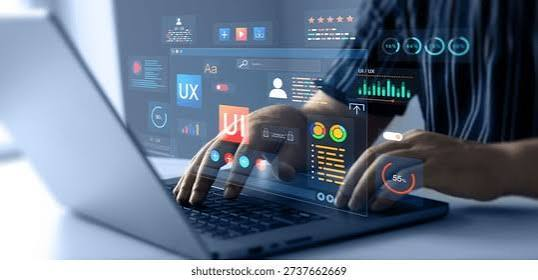
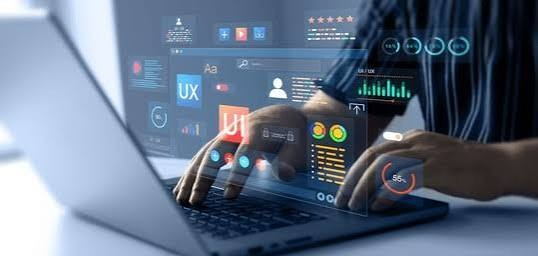
update

diff --git a/computer-details.css b/computer-details.css
@@ -1,4 +1,4 @@
-.mobile-detail {
+.computer-detail {
     width: 92%;
     max-width: 1400px;
     margin: 60px auto;
@@ -10,15 +10,14 @@
     border-radius: 28px;
     box-shadow: 0 15px 40px rgba(37, 99, 235, 0.08);
     box-sizing: border-box;
-
 }
 
-.mobile-detail-image {
+.computer-detail-image {
     flex: 1;
     min-width: 0;
 }
 
-.mobile-detail-image img {
+.computer-detail-image img {
     display: block;
     width: 100%;
     height: 420px;
@@ -26,13 +25,12 @@
     border-radius: 20px;
 }
 
-.mobile-detail-content {
+.computer-detail-content {
     flex: 1;
     min-width: 0;
-
 }
 
-.mobile-detail-label {
+.computer-detail-label {
     display: inline-block;
     margin-bottom: 14px;
     color: #2563eb;
@@ -41,14 +39,14 @@
     letter-spacing: 2px;
 }
 
-.mobile-detail-content h1 {
+.computer-detail-content h1 {
     margin-bottom: 18px;
     color: #0f172a;
     font-size: 38px;
     line-height: 1.3;
 }
 
-.mobile-detail-content p {
+.computer-detail-content p {
     max-width: 560px;
     margin-bottom: 28px;
     color: #64748b;
@@ -56,14 +54,17 @@
     line-height: 1.8;
 }
 
-.mobile-detail-cards {
+.computer-detail-cards {
     display: flex;
+    
+    
     gap: 18px;
     margin-top: 30px;
 }
 
-.mobile-info-card {
-    flex: 1 1 0;
+.computer-info-card {
+    flex: 1;
+    min-width: 0;
     padding: 20px;
     background-color: #f8fafc;
     border: 1px solid #e2e8f0;
@@ -71,37 +72,29 @@
     transition: 0.3s;
 }
 
-.mobile-info-card i {
+.computer-info-card i {
     display: block;
     margin-bottom: 12px;
     color: #2563eb;
     font-size: 24px;
-    
 }
 
-
-.mobile-info-card h3 {
+.computer-info-card h3 {
     margin-bottom: 8px;
     color: #0f172a;
     font-size: 17px;
 }
 
-.mobile-info-card p {
+.computer-info-card p {
     margin: 0;
     color: #64748b;
     font-size: 13px;
     line-height: 1.6;
 }
 
-.mobile-info-card:hover {
+.computer-info-card:hover {
     transform: translateY(-4px);
     box-shadow: 0 8px 20px rgba(15, 23, 42, 0.08);
-}
-
-.mobile-detail-cards {
-    display: flex !important;
-    flex-direction: row !important;
-    width: 100%;
 }
 
 /* گزینه برگشت */
@@ -119,61 +112,4 @@
 .back-home:hover {
     color: #1d4ed8;
     transform: translateX(-3px);
-}
-
-.mobile-card-extra-info {
-    width: 92%;
-    max-width: 1200px;
-    margin: 30px auto 60px;
-    padding: 30px 36px;
-    box-sizing: border-box;
-    background-color: #f8fafc;
-    border: 1px solid #e2e8f0;
-    border-radius: 20px;
-    box-shadow: 0 10px 30px rgba(37, 99, 235, 0.06);
-    display: none;
-
-}
-
-.mobile-card-extra-content {
-    display: none;
-    animation: mobileInfoShow 0.5s ease;
-}
-
-@keyframes mobileInfoShow {
-    from {
-        opacity: 0;
-        transform: translateY(12px);
-    }
-    to{
-        opacity: 1;
-        transform: translateY(0);
-    }
-}
-
-.mobile-card-extra-content h3 {
-    margin-bottom: 12px;
-    color: #0f172a;
-    font-size: 24px;
-}
-
-.mobile-card-extra-content p {
-    margin: 0;
-    color: #64748b;
-    font-size: 15px;
-    line-height: 1.8;
-}
-
-.mobile-card-extra-info.show {
-    display: block;
-}
-
-.mobile-card-extra-content.show {
-    display: block;
-}
-
-
-.mobile-info-card.active {
-    border-color: #2563eb;
-    box-shadow: 0 8px 20px rgba(37, 99, 235, 0.12);
 }

diff --git a/computer-details.html b/computer-details.html
@@ -1,0 +1,69 @@
+<!DOCTYPE html>
+<html lang='en'>
+<head>
+    <meta charset='utf-8'>
+    <meta name='viewport' content='width=device-width, initial-scale=1'>
+    <title>Computer TechNova</title>
+    <link rel='stylesheet' href='style.css'>
+    <link rel="stylesheet" href="computer-details.css">
+    <link rel="stylesheet" href="https://cdn.jsdelivr.net/npm/bootstrap-icons@1.11.3/font/bootstrap-icons.min.css">
+</head>
+<body>
+    <main>
+        <a href="index.html" class="back-home"><i class="bi bi-arrow-left"></i>back to Home</a>
+
+        <section class="computer-detail">
+            <div class="computer-detail-image">
+                <img src="images/imggg.jpg" alt="Modern Computer Technology">
+
+            </div>
+
+            <div class="computer-detail-content">
+                <span class="computer-detail-label">Computer Technology</span>
+                <h1>The Future of Computer Technology</h1>
+                <p>
+                    Explore modern computer technology, powerful hardware, advanced processors and the innovations shaping the future of computing.
+                </p>
+
+                
+                <div class="computer-detail-cards">
+                    <div class="computer-info-card" data-card="hardware">
+                        <i class="bi bi-pc-display"></i>
+                        <h3>Modern Hardware</h3>
+                        <p>
+                            Discover the latest developments in computer hardware.
+                        </p>
+                    </div>
+                    
+                    <div class="computer-info-card" data-card="processors">
+                        <i class="bi bi-cpu"></i>
+                        <h3>Powerful Processors</h3>
+                        <p>
+                            Explore modern processors and their growing capabilities.
+                        </p>
+                    </div>
+                    
+                    <div class="computer-info-card" data-card="future">
+                        <i class="bi bi-graph-up-arrow"></i>
+                        <h3>Future of Computing</h3>
+                        <p>
+                            Discover how computer technology may evolve in the future.
+                        </p>
+                    </div>
+                    
+                </div>
+            </div>
+
+        </section>
+
+
+
+
+
+
+
+
+    </main>
+    
+</body>
+</html>

diff --git a/mobile-details.js b/mobile-details.js
@@ -1,0 +1,32 @@
+const mobileCards = document.querySelectorAll(".mobile-info-card");
+const mobileExtraInfo = document.querySelector(".mobile-card-extra-info");
+const mobileExtraContent = document.querySelectorAll(".mobile-card-extra-content");
+
+mobileCards.forEach(function (card) {
+    card.addEventListener("click", function () {
+        const cardName = card.dataset.card;
+        const selectedContent = document.querySelector('.mobile-card-extra-content[data-card="' + cardName + '"]');
+
+        mobileCards.forEach(function (item) {
+            item.classList.remove("active");
+        });
+        card.classList.add("active");
+
+         if (selectedContent.classList.contains("show")) {
+            selectedContent.classList.remove("show");
+            mobileExtraInfo.classList.remove("show");
+            // برای رفت و برگشت رنگ کادر
+            card.classList.remove("active");
+            return;
+        }
+
+        mobileExtraContent.forEach(function(content) {
+            content.classList.remove("show");
+        });
+
+        selectedContent.classList.add("show");
+        mobileExtraInfo.classList.add("show");
+
+        
+    });
+});

diff --git a/index.html b/index.html
@@ -150,7 +150,7 @@
                             Explore the latest innovation in computers and modern technology.
                         </p>
 
-                        <a href="#" class="read-more">Read More <i class="bi bi-arrow-right"></i></a>
+                        <a href="computer-details.html" class="read-more">Read More <i class="bi bi-arrow-right"></i></a>
 
                     </div>
 

diff --git a/mobile-details.html b/mobile-details.html
@@ -81,6 +81,13 @@
          </div>
         
     </main>
+
+
+
+
+
+
+    <script src="mobile-details.js"></script>
     
 </body>
 </html>
